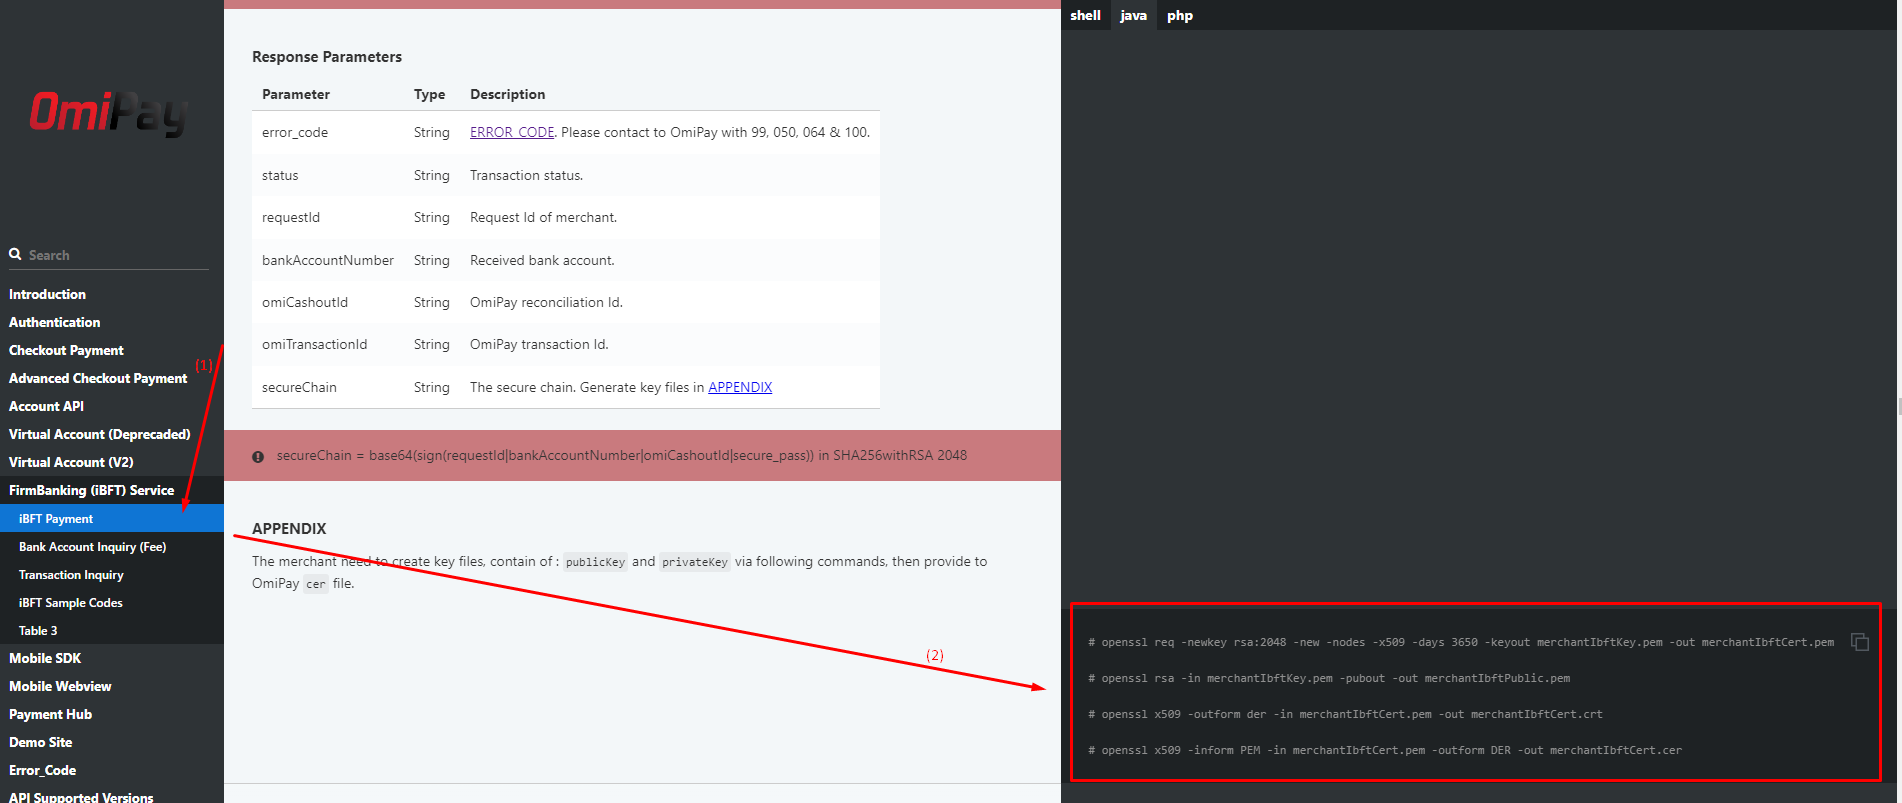
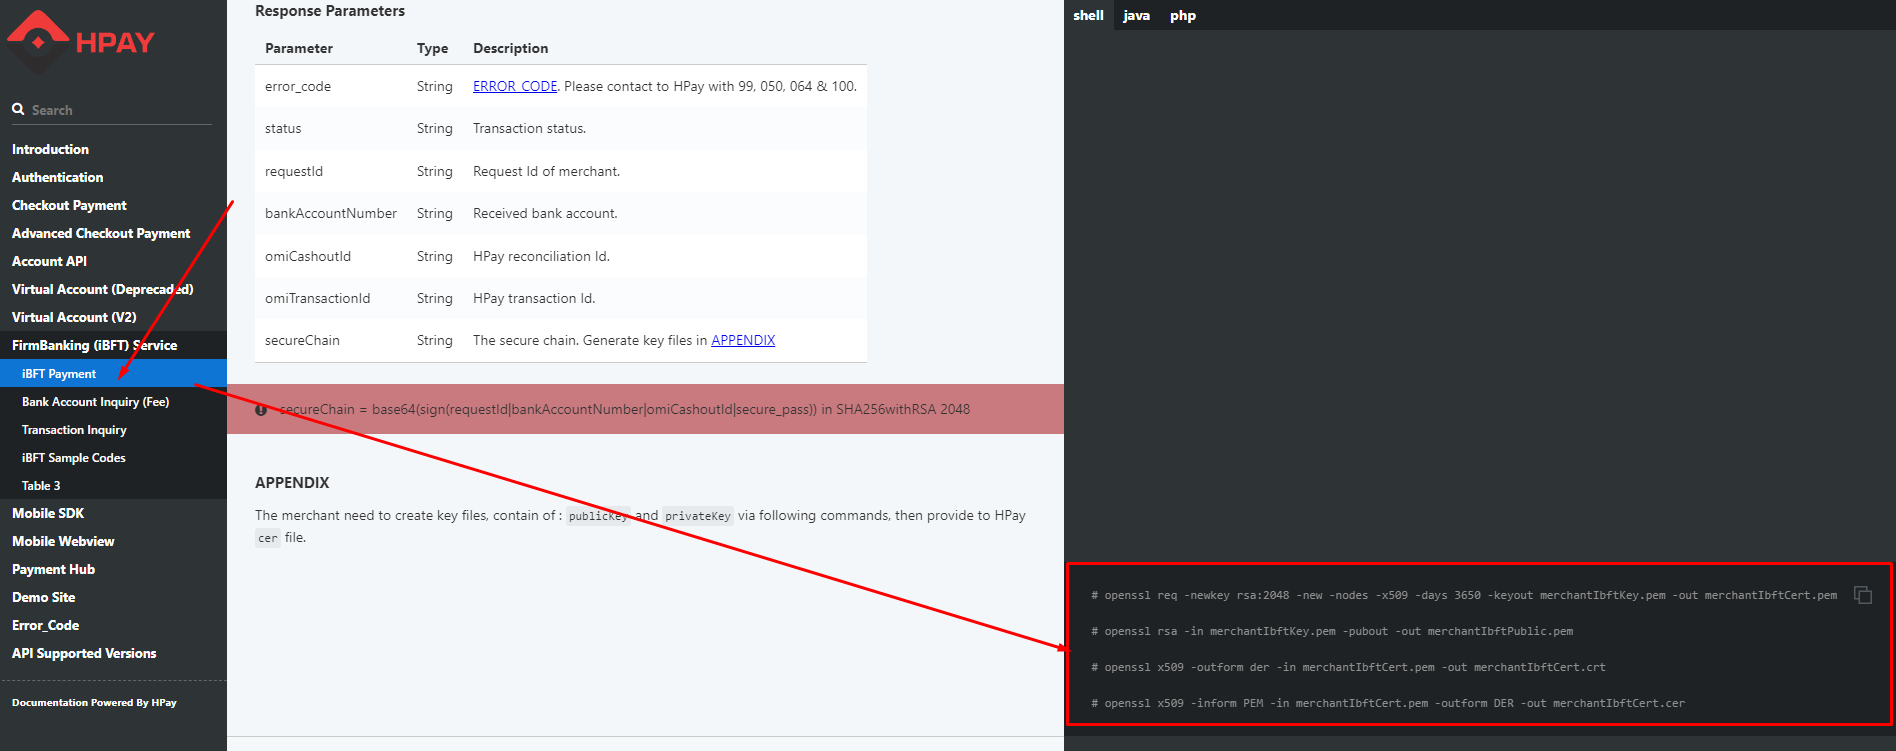
Move OmiPay => HPay

diff --git a/Virtual Account/README.md b/Virtual Account/README.md
@@ -5,18 +5,18 @@ Step by Step hướng dẫn tích hợp dịch vụ Thu hộ (VA)
 
 ## Step by Step
 
-<B>Step 1</B>. Omipay cung cấp thông số kết nối:
+<B>Step 1</B>. HPay cung cấp thông số kết nối:
 - Thông số Merchant: MID, Passcode.
 
 <B>Step 2</B>. Merchant thực hiện tích hợp API theo tài liệu
-- Tài liệu hướng dẫn tích hợp API: https://api-ref.omipay.vn/#create-account-2
+- Tài liệu hướng dẫn tích hợp API: https://api-ref.hpay.com.vn/#create-account-2
 ![Alt text](va.png)
 
 <B>Step 3</B>. Merchant cung cấp endpoint API để nhận callback webhook:
 - Merchant viết một API với endpoint bắt buộc (/va/callback) như sau: https://[yourdomain]/va/callback
-- Sau khi viết API xử lý nhận callback từ Omipay, vui lòng gửi url API đó cho Omipay để cấu hình.
+- Sau khi viết API xử lý nhận callback từ HPay, vui lòng gửi url API đó cho HPay để cấu hình.
 ![Alt text](callback_va.png)
 
-<B>Step 4</B>. Omipay thực hiện gọi gạch nợ tài khoản VA
-- Merchant gọi api tạo tài khoản VA và cung cấp tài khoản VA vừa tạo cho phía Omipay để Omipay thực hiện gọi gạch nợ.
-- Sau khi Omipay gọi gạch nợ sẽ có callback gọi vào url API callback mà Merchant gửi Omipay ở Step 3.
+<B>Step 4</B>. HPay thực hiện gọi gạch nợ tài khoản VA
+- Merchant gọi api tạo tài khoản VA và cung cấp tài khoản VA vừa tạo cho phía HPay để HPay thực hiện gọi gạch nợ.
+- Sau khi HPay gọi gạch nợ sẽ có callback gọi vào url API callback mà Merchant gửi HPay ở Step 3.

diff --git a/Firm Banking (IBFT)/README.md b/Firm Banking (IBFT)/README.md
@@ -5,20 +5,20 @@ Step by Step hướng dẫn tích hợp dịch vụ IBFT
 
 ## Step by Step
 
-<B>Step 1</B>. Omipay cung cấp thông số kết nối
+<B>Step 1</B>. HPay cung cấp thông số kết nối
 - Thông số Merchant: MID, Passcode.
 - Cung cấp public_key của HTP để xác thực signature.
 - Cung cấp thông số thẻ test.
 
 <B>Step 2</B>. Merchant cung cấp thông tin sau:
-- Merchant cung cấp IP public để Omipay thêm vào Whitelist IP.
+- Merchant cung cấp IP public để HPay thêm vào Whitelist IP.
 - Generate key files: publicKey và privateKey.
-- Sau khi tạo key file: Merchant cung cấp Omipay public key (.cer) file.
-- Hướng dẫn cách tạo key files: https://api-ref.omipay.vn/#ibft-payment
+- Sau khi tạo key file: Merchant cung cấp HPay public key (.cer) file.
+- Hướng dẫn cách tạo key files: https://api-ref.hpay.com.vn/#ibft-payment
 ![Alt text](generate_key_flie.png)
 
 <B>Step 3</B>. Merchant thực hiện tích hợp API sau khi thức hiện Step 1, 2
-- Tài liệu hướng dẫn tích hợp API: https://api-ref.omipay.vn/#firmbanking-ibft-service
+- Tài liệu hướng dẫn tích hợp API: https://api-ref.hpay.com.vn/#firmbanking-ibft-service
 - Recomment sử dụng Solution 2 trong Document hướng dẫn
 ![Alt text](api_ibft.png)
 
